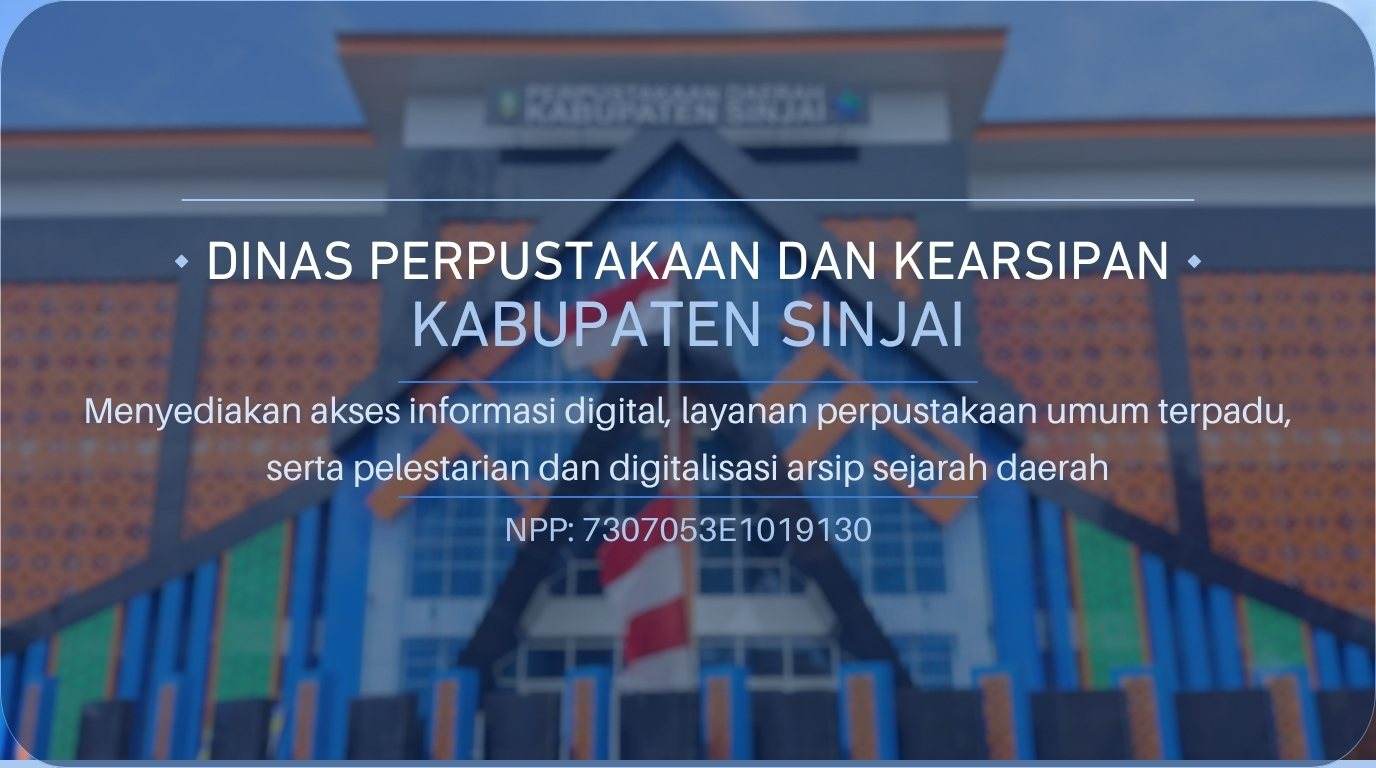
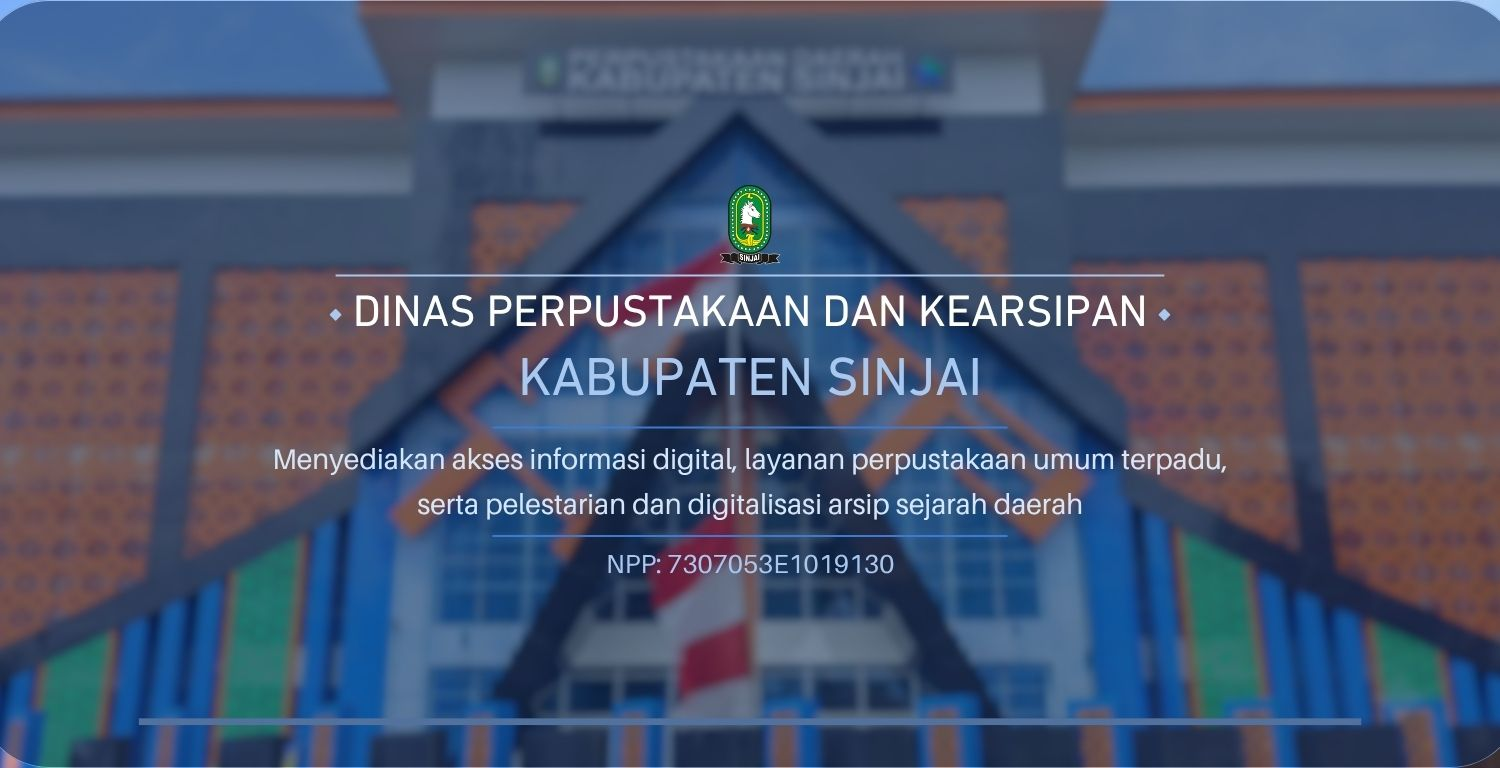
running teks desktop tablet

diff --git a/app/Views/layouts/public.php b/app/Views/layouts/public.php
@@ -102,7 +102,7 @@ $currentUri = current_url();
 ?>
 
 <!-- Top Bar Marquee -->
-<div class="bg-primary text-on-primary py-2 text-caption font-caption">
+<div class="bg-primary text-on-primary py-2 text-caption font-caption md:hidden">
     <div class="max-w-container-max mx-auto px-margin-mobile md:px-gutter marquee">
         <p><?= esc($runningText['teks'] ?? 'Selamat Datang di Portal Resmi Dinas Perpustakaan & Kearsipan Sinjai') ?></p>
     </div>
@@ -113,22 +113,27 @@ $currentUri = current_url();
     <!-- Brand & Search Bar / Mobile Controls Row -->
     <div class="w-full max-w-container-max mx-auto px-margin-mobile md:px-gutter py-4 flex items-center justify-between gap-4">
         <!-- Brand -->
-        <div class="flex items-center gap-3">
+        <div class="flex items-center gap-3 shrink-0">
             <img alt="Logo DISPUSIP" class="h-10 w-auto object-contain" src="<?= base_url('img/logo.png') ?>"/>
             <div class="font-title-lg text-title-lg font-bold text-on-primary dark:text-on-primary-container leading-tight">
                 DISPUSIP <span class="text-secondary-fixed">Sinjai</span>
             </div>
         </div>
         
+        <!-- Top App Bar Running Text (Desktop & Tablet: Posisi antara Brand dan Mobile Controls / Search, sembunyi di Mobile) -->
+        <div class="hidden md:block flex-1 mx-4 overflow-hidden marquee text-on-primary dark:text-on-primary-container text-caption font-caption">
+            <p><?= esc($runningText['teks'] ?? 'Selamat Datang di Portal Resmi Dinas Perpustakaan & Kearsipan Sinjai') ?></p>
+        </div>
+
         <!-- Mobile Controls (Hamburger) -->
-        <div class="flex items-center gap-2 lg:hidden">
+        <div class="flex items-center gap-2 lg:hidden shrink-0">
             <button id="mobile-menu-toggle" class="text-on-primary dark:text-on-primary-container p-2 focus:outline-none hover:bg-white/10 rounded transition-colors" aria-label="Toggle Menu">
                 <i class="fa-solid fa-bars text-[28px]" id="menu-icon"></i>
             </button>
         </div>
 
         <!-- Search Bar (Desktop) -->
-        <div class="hidden lg:block">
+        <div class="hidden lg:block shrink-0">
             <form action="<?= base_url('berita') ?>" method="GET" class="relative">
                 <input name="cari" value="<?= esc(service('request')->getGet('cari')) ?>" class="w-64 pl-10 pr-4 py-2 bg-surface text-on-surface border border-outline rounded focus:border-primary-container focus:ring-2 focus:ring-primary-container focus:ring-offset-2 outline-none transition-all font-body-md text-body-md" placeholder="Cari informasi..." type="text"/>
                 <i class="fa-solid fa-search absolute left-3 top-2.5 text-outline"></i>

diff --git a/GEMINI.md b/GEMINI.md
@@ -1,42 +1,0 @@
-Buatkan 4 halaman berikut:
-/ppid/berkala
-/ppid/setiap_saat
-/ppid/serta_merta
-/ppid/dikecualikan
-
-Buat controller:
-app/Controllers/Ppid.php
-
-yang memiliki method:
-berkala()
-setiap_saat()
-serta_merta()
-dikecualikan()
-
-Masing-masing method mengirimkan data:
-title
-embedUrl
-ke view.
-Routing
-
-Tambahkan route berikut:
-$routes->get('ppid/berkala', 'Ppid::berkala');
-$routes->get('ppid/setiap_saat', 'Ppid::setiap_saat');
-$routes->get('ppid/serta_merta', 'Ppid::serta_merta');
-$routes->get('ppid/dikecualikan', 'Ppid::dikecualikan');
-View
-
-
-Data Embed
-1. Berkala
-Base URL:
-https://ppidkab.sinjaikab.go.id/v2/widgets/embed?type=latest&display=card&mode=static&columns=4&autoplay=0&limit=5&unit_id=730730&category=Informasi%20Berkala&t=1784606318550&origin=
-
-2. Setiap Saat
-https://ppidkab.sinjaikab.go.id/v2/widgets/embed?type=latest&display=card&mode=static&columns=4&autoplay=0&limit=5&unit_id=730730&category=Informasi%20Setiap%20Saat&t=1784606413506&origin=
-
-3. Serta Merta
-https://ppidkab.sinjaikab.go.id/v2/widgets/embed?type=latest&display=card&mode=static&columns=4&autoplay=0&limit=5&unit_id=730730&category=Informasi%20Serta%20Merta&t=1784606462712&origin=
-
-4. Dikecualikan
-https://ppidkab.sinjaikab.go.id/v2/widgets/embed?type=latest&display=card&mode=static&columns=4&autoplay=0&limit=5&unit_id=730730&category=Informasi%20Dikecualikan&t=1784606523252&origin=